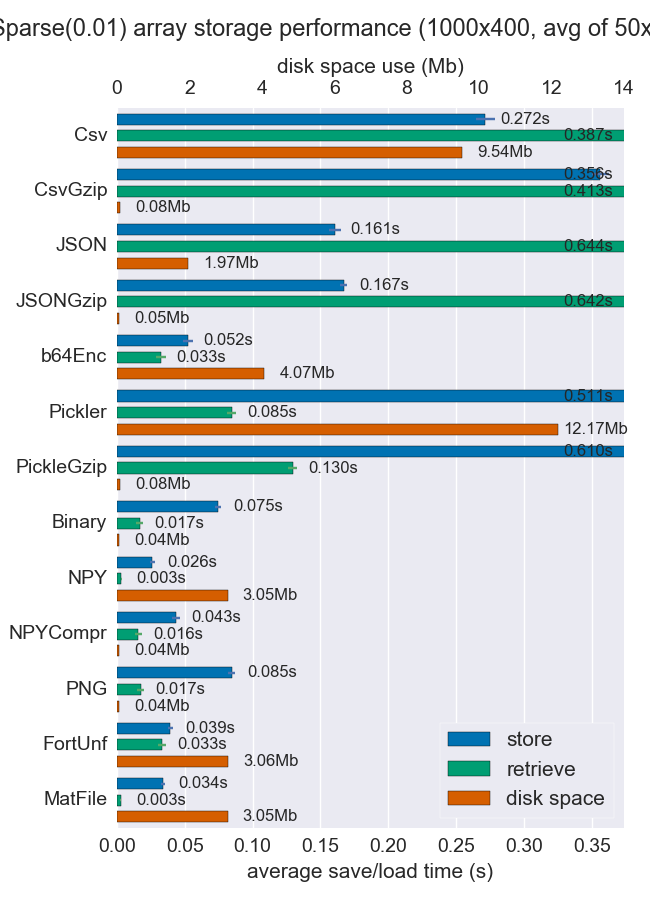
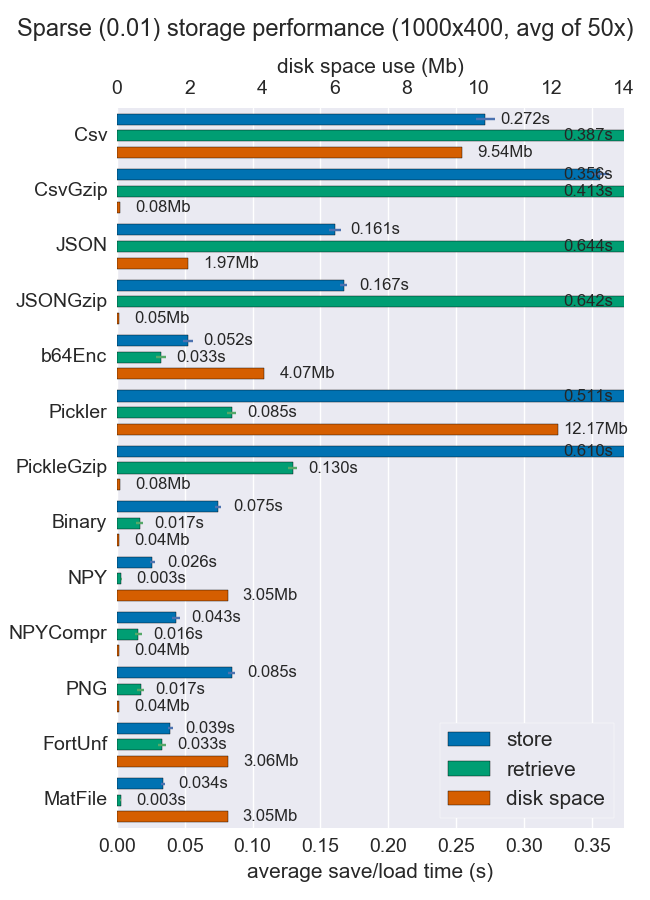
sparse title

Changed region(s): [[0.0, 0.0, 1.0, 0.0622]]

diff --git a/benchmark.py b/benchmark.py
@@ -106,7 +106,7 @@ if __name__ == '__main__':
 	reps = int(argv[1]) if len(argv) > 1 else 30
 	for data, name, label in (
 		(random_data((1000, 400)), 'random', 'Random array'),
-		(random_data((1000, 400), is_sparse=True), 'sparse', 'Sparse(0.01) array'),
+		(random_data((1000, 400), is_sparse=True), 'sparse', 'Sparse (0.01)'),
 		(random_data((100000, 3)), 'long', 'Long array'),
 		(load_example_data(), 'example', 'Real data'),
 	):
